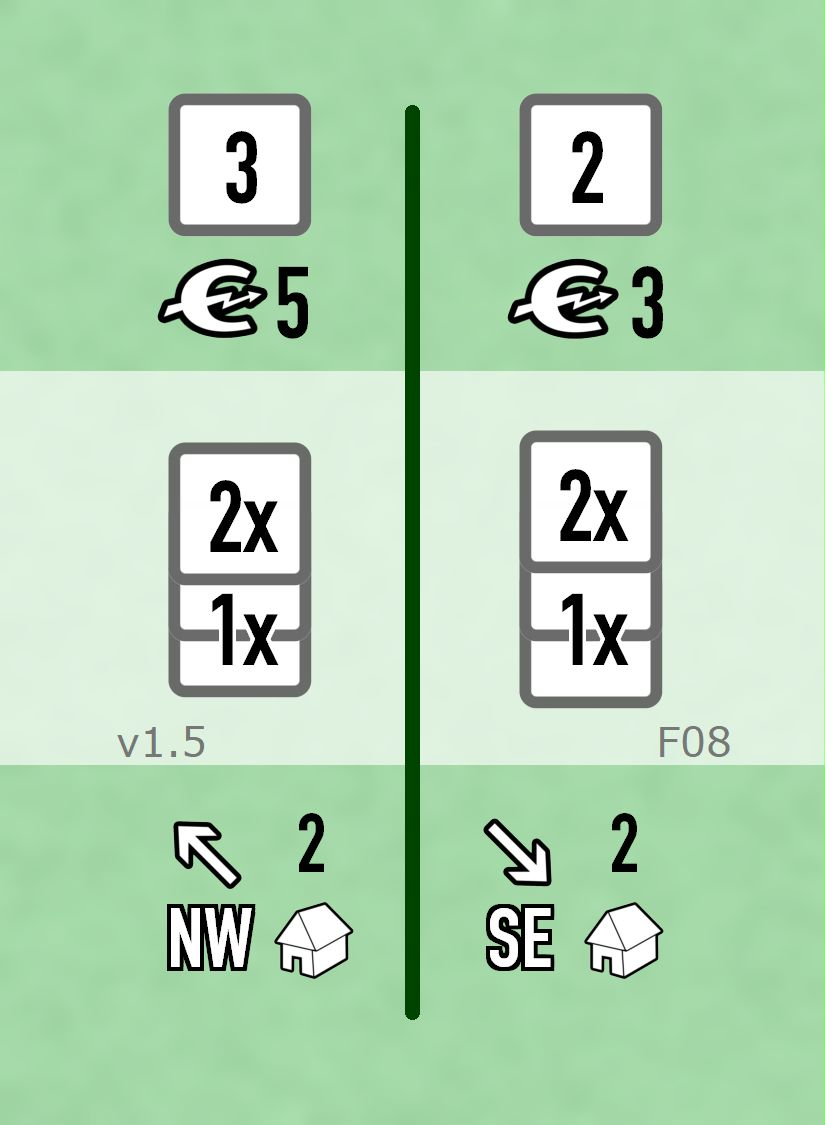
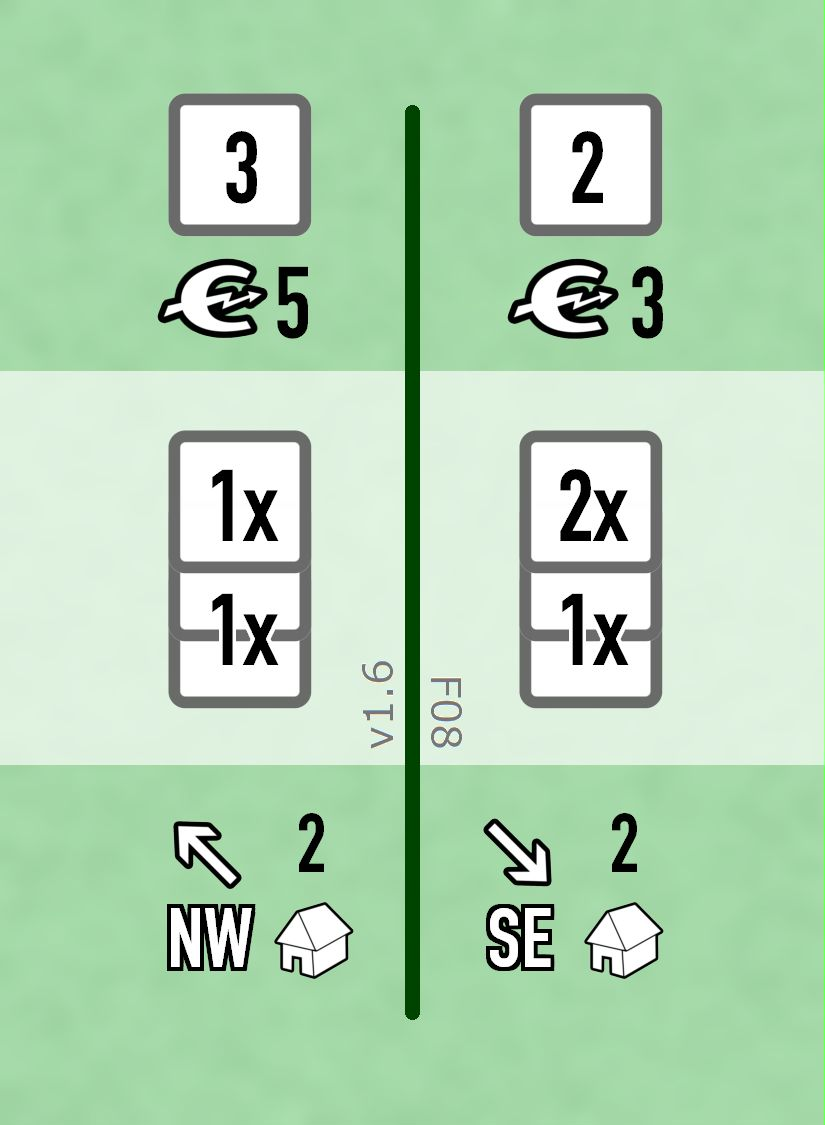
v1.6 automa deck

diff --git a/src/bin/analyze.py b/src/bin/analyze.py
@@ -2,6 +2,7 @@ import src.board as board
 import src.automa_card_info as automa_card_info
 import src.generate as generate
 import src.model as model
+import pprint
 
 def analyze_board(map):
     city_count = len(map['cities'])
@@ -32,8 +33,6 @@ def analyze_board(map):
             'step_2_city_count': info[3],
             'end_game_city_count': info[4]
         }
-
-    import pprint
     pprint.pprint({
         'map': map['name'],
         'cities': city_count,
@@ -49,29 +48,62 @@ def count_turns(build_index,deck):
     card_index = 0
     current_score = 0
     turns = 0
-    build_count = 0
     while current_score < end_game_score:
         card = deck[card_index % len(deck)]
-        current_score += card.city_build[build_index]
-        build_count += card.city_build[build_index]
+        current_score += card.left_half.build_amount if build_index == 0 else card.right_half.build_amount
         card_index += 1
         turns += 1
-    return turns,build_count
+    return turns,current_score
 
 def analyze_automa():
     cards = [model.AutomaCard(xx) for xx in generate.create_cards()]
-    low_build_1_turns,low_build_1_count = count_turns(0,sorted(cards,key=lambda xx:xx.city_build[0]))
-    high_build_1_turns,high_build_1_count = count_turns(0,sorted(cards,key=lambda xx:xx.city_build[0],reverse=True))
-    low_build_2_turns,low_build_2_count = count_turns(1,sorted(cards,key=lambda xx:xx.city_build[1]))
-    high_build_2_turns,high_build_2_count = count_turns(1,sorted(cards,key=lambda xx:xx.city_build[1],reverse=True))
+    low_build_1_turns,low_build_1_count = count_turns(0,sorted(cards,key=lambda xx:xx.left_half.build_amount))
+    high_build_1_turns,high_build_1_count = count_turns(0,sorted(cards,key=lambda xx:xx.left_half.build_amount,reverse=True))
+    low_build_2_turns,low_build_2_count = count_turns(1,sorted(cards,key=lambda xx:xx.right_half.build_amount))
+    high_build_2_turns,high_build_2_count = count_turns(1,sorted(cards,key=lambda xx:xx.right_half.build_amount,reverse=True))
 
-    #print("Market distribution")
-    hits = {}
+    print("Plant market pick distribution")
+    hits = {'left':{},'right':{}}
     for market in automa_card_info.manual_plant_choices:
-        for hit in market:
-            if not hit in hits:
-                hits[hit] = 0
-            hits[hit] += 1
+        left_hit = market[0]
+        if not left_hit in hits['left']:
+            hits['left'][left_hit] = 0
+        hits['left'][left_hit] += 1
+
+        right_hit = market[1]
+        if not right_hit in hits['right']:
+            hits['right'][right_hit] = 0
+        hits['right'][right_hit] += 1
+    pprint.pprint(hits,indent=2,width=2)
+
+    print("Ante distribution")
+    hits = {'left':{},'right':{}}
+    for ante in automa_card_info.manual_antes:
+        left_hit = ante[0]
+        if not left_hit in hits['left']:
+            hits['left'][left_hit] = 0
+        hits['left'][left_hit] += 1
+
+        right_hit = ante[1]
+        if not right_hit in hits['right']:
+            hits['right'][right_hit] = 0
+        hits['right'][right_hit] += 1
+    pprint.pprint(hits,indent=2,width=2)
+
+    print("Resource mult distribution")
+    hits = {'left':{},'right':{}}
+    for resource in automa_card_info.manual_resources:
+        left_hit = resource[0]
+        if not left_hit in hits['left']:
+            hits['left'][left_hit] = 0
+        hits['left'][left_hit] += 1
+
+        right_hit = resource[1]
+        if not right_hit in hits['right']:
+            hits['right'][right_hit] = 0
+        hits['right'][right_hit] += 1
+    pprint.pprint(hits,indent=2,width=2)
+
     print(f"The game ends when someone scores 17 points")
     print(f"Automa 1 will take at least {high_build_1_turns} turns and at most {low_build_1_turns}")
     print(f"Automa 2 will take at least {high_build_2_turns} turns and at most {low_build_2_turns}")

diff --git a/src/automa_card_info.py b/src/automa_card_info.py
@@ -31,7 +31,7 @@ manual_antes = [
 ]
 
 manual_plant_choices = [
-    [1,2],
+    [-1,2],
     [2,3],
     [3,4],
     [4,1],
@@ -48,7 +48,7 @@ manual_plant_choices = [
     [4,2],
     [3,1],
     [4,3],
-    [-1,2],
+    [1,2],
     [3,-1],
     [4,2],
 
@@ -105,12 +105,12 @@ manual_resources = [
     [1,2],
     [1,2],
 
+    [0,1],
+    [1,0],
     [1,1],
+    [0,2],
     [1,1],
-    [1,1],
-    [1,1],
-    [1,1],
-    [1,1],
+    [2,0],
 
     [1,1],
     [1,1],

diff --git a/src/bin/main.py b/src/bin/main.py
@@ -1,9 +1,9 @@
 import src.debug as debug
-debug.DEBUG_SIM = False
-debug.DEBUG_GAME = False
+debug.DEBUG_SIM = True
+debug.DEBUG_GAME = True
 debug.DEBUG_RESULT = True
-debug.LOG_FILES = False
-GAMES_TO_SIMULATE = 1000
+debug.LOG_FILES = True
+GAMES_TO_SIMULATE = 1
 PLAYER_COUNT = 3
 import src.board
 MAP = src.board.united_states_of_america

diff --git a/src/generate.py b/src/generate.py
@@ -53,3 +53,5 @@ def write_cards_to_csv(cards):
         writer = csv.DictWriter(write_handle,headers)
         writer.writeheader()
         writer.writerows(cards)
+        # Sometimes nandeck freaks out and needs an extra line or else the last card is ignored
+        writer.writerow({'id':'nandeck'})
